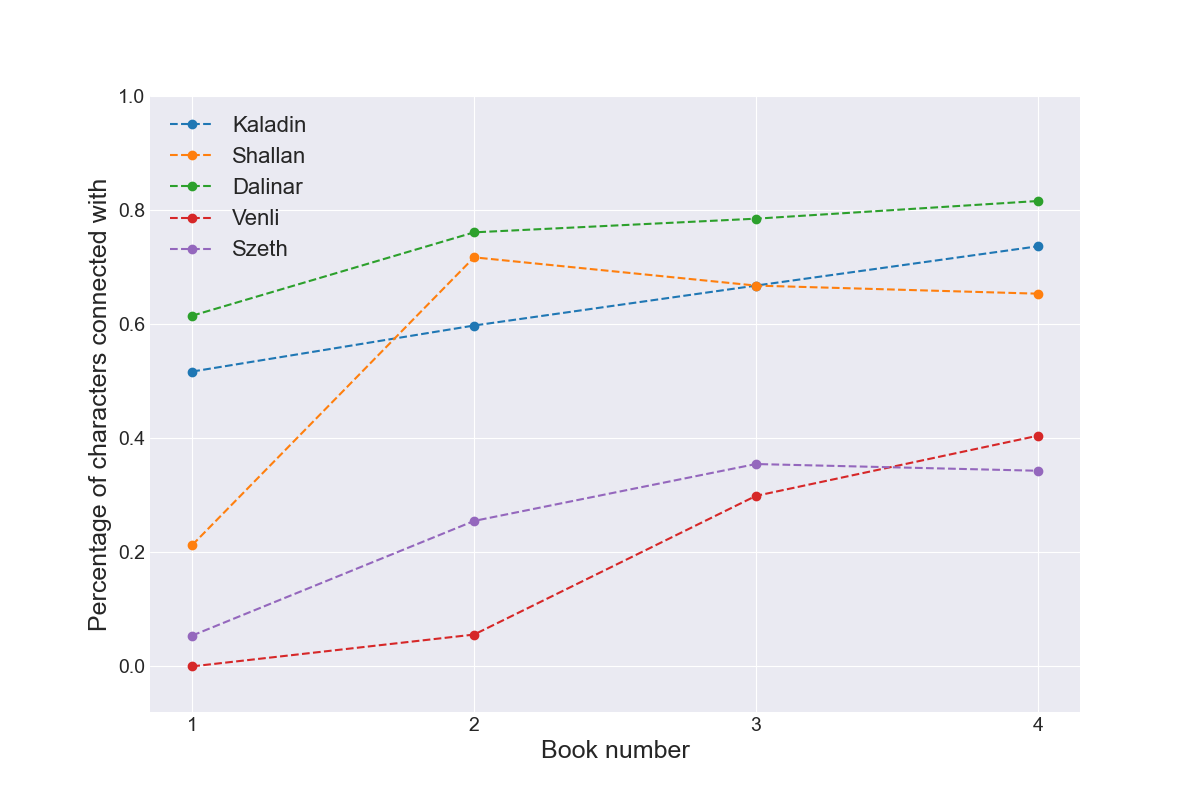
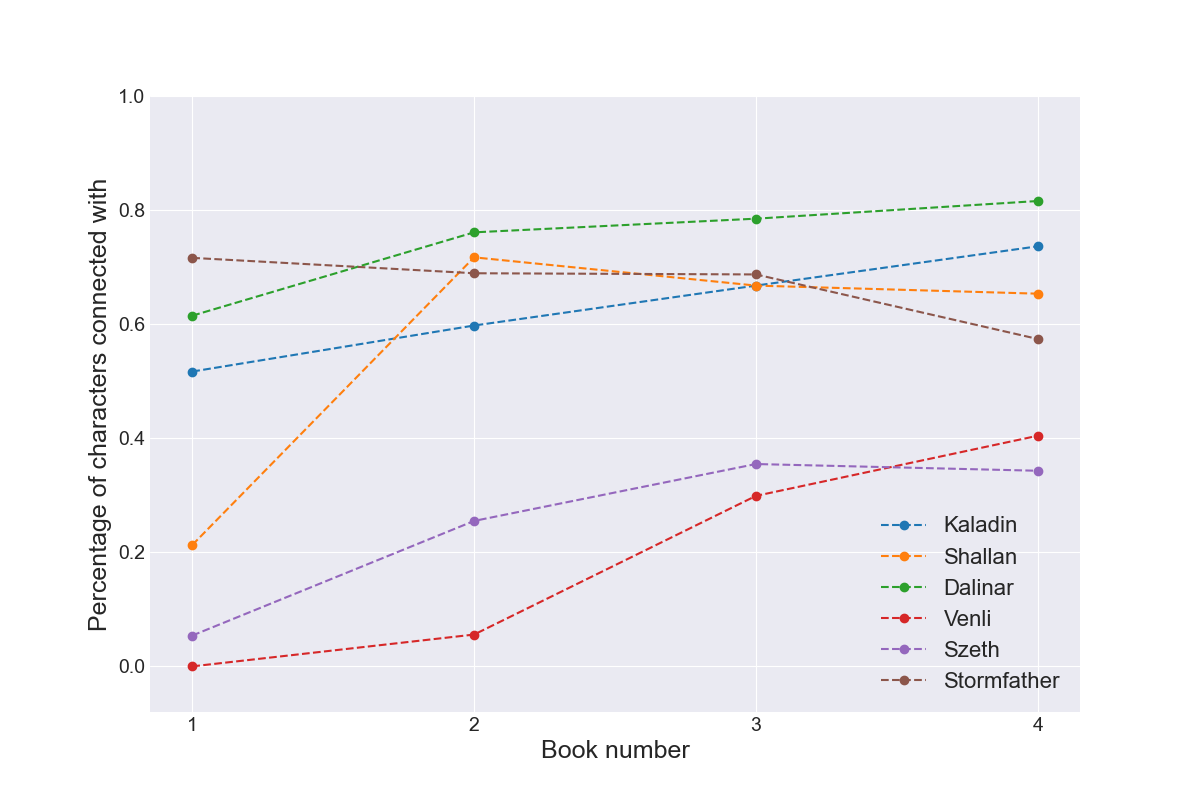
Study of characters who shared the most chapters with another characters
In this case I studied Kaladin.

Changed region(s): [[0.74, 0.625, 0.8942, 0.875], [0.1542, 0.125, 0.2467, 0.3438], [0.37, 0.3125, 0.4008, 0.3438]]

diff --git a/initial analisys.py b/initial analisys.py
@@ -4,7 +4,10 @@ import pickle
 import pandas as pd
 import numpy as np
 import matplotlib.pyplot as plt
+import seaborn as sns
 from matplotlib.ticker import MaxNLocator
+
+plt.style.use("default")
 plt.style.use("seaborn-dark")
 #%% To load the graphs
 with open('graphs/WoK.gpickle', 'rb') as f:
@@ -16,6 +19,8 @@ with open('graphs/OB.gpickle', 'rb') as f:
 with open('graphs/RoW.gpickle', 'rb') as f:
     G_row = pickle.load(f)
 
+
+list_of_graphs = [G_wok, G_wor, G_ob, G_row]
 #%% Studying central characters´s links
 
 G_wok_simple = nx.Graph(G_wok)
@@ -23,13 +28,13 @@ G_wor_simple = nx.Graph(G_wor)
 G_ob_simple = nx.Graph(G_ob)
 G_row_simple = nx.Graph(G_row)
 
-list_of_graphs = [G_wok_simple, G_wor_simple, G_ob_simple, G_row_simple]
+list_of_simple_graphs = [nx.Graph(G) for G in list_of_graphs]
 
 characters_to_analyze = ["Kaladin", "Shallan", "Dalinar", "Venli", "Szeth", "Stormfather"]
 
 edges_with_characters_by_book = [[0,0,0,0] for i in characters_to_analyze]
 
-for i, graph in enumerate(list_of_graphs):
+for i, graph in enumerate(list_of_simple_graphs):
     for edge in graph.edges():
         for character in characters_to_analyze:
             if character in edge:
@@ -51,5 +56,56 @@ ax.set_xlabel("Book number", fontsize = 18)
 ax.set_ylabel("Percentage of characters connected with", fontsize = 18)
 ax.tick_params(axis='both', which='major', labelsize=14)
 
+#plt.savefig("plots/Percentage of characters interacted.png")
+#%% Function to pass from MultiGraph to WeightedGraph
 
+def convert_to_weighted(graph):
+
+    G_weighted = nx.Graph()
+    checked_edges = []
+    edge_list = list(graph.edges())
+    for i,edge_i in (enumerate(edge_list)):
+        edge_weight = 1
+        if edge_i not in checked_edges:
+            for j in range(i+1,len(edge_list)):
+                enlace_j = edge_list[j]
+                if edge_i == enlace_j:
+                    edge_weight +=1
+        
+            checked_edges.append(edge_i)
+            if edge_i in G_weighted.edges():
+                G_weighted[edge_i[0]][edge_i[1]]["weight"] += 1
+            else:  
+                G_weighted.add_edge(edge_i[0],edge_i[1], weight = edge_weight)
+            
+    return G_weighted
+#%%
+
+weighted_graphs = [convert_to_weighted(G) for G in list_of_graphs]
+
+
+# %%
+
+most_interacted = [["",0] for i in range(len(list_of_graphs))] 
+
+for i, G in enumerate(weighted_graphs):
+
+    kaladin_list = dict(G["Kaladin"])
+    
+    for character, weight in kaladin_list.items():
+        weight = weight["weight"]
+        if weight > most_interacted[i][1]:
+            most_interacted[i] = [character,weight]
+
+most_interacted = {i[0]:i[1] for i in most_interacted}
+df = pd.DataFrame(most_interacted, index = ["Characters"])
+# %%
+fig, axs = plt.subplots(figsize = (8,4))
+
+sns.barplot(data = df, ax = axs, orient = "h")
+axs.set_title("Characters who shared the most chapters with Kaladin", fontsize = 18)
+axs.tick_params(axis = "both", labelsize = 12)
+axs.set_xlabel("Amount of shared chapters",fontsize = 14)
+
+plt.savefig("plots/Characters who shared the most chapters with Kaladin.png")
 # %%
